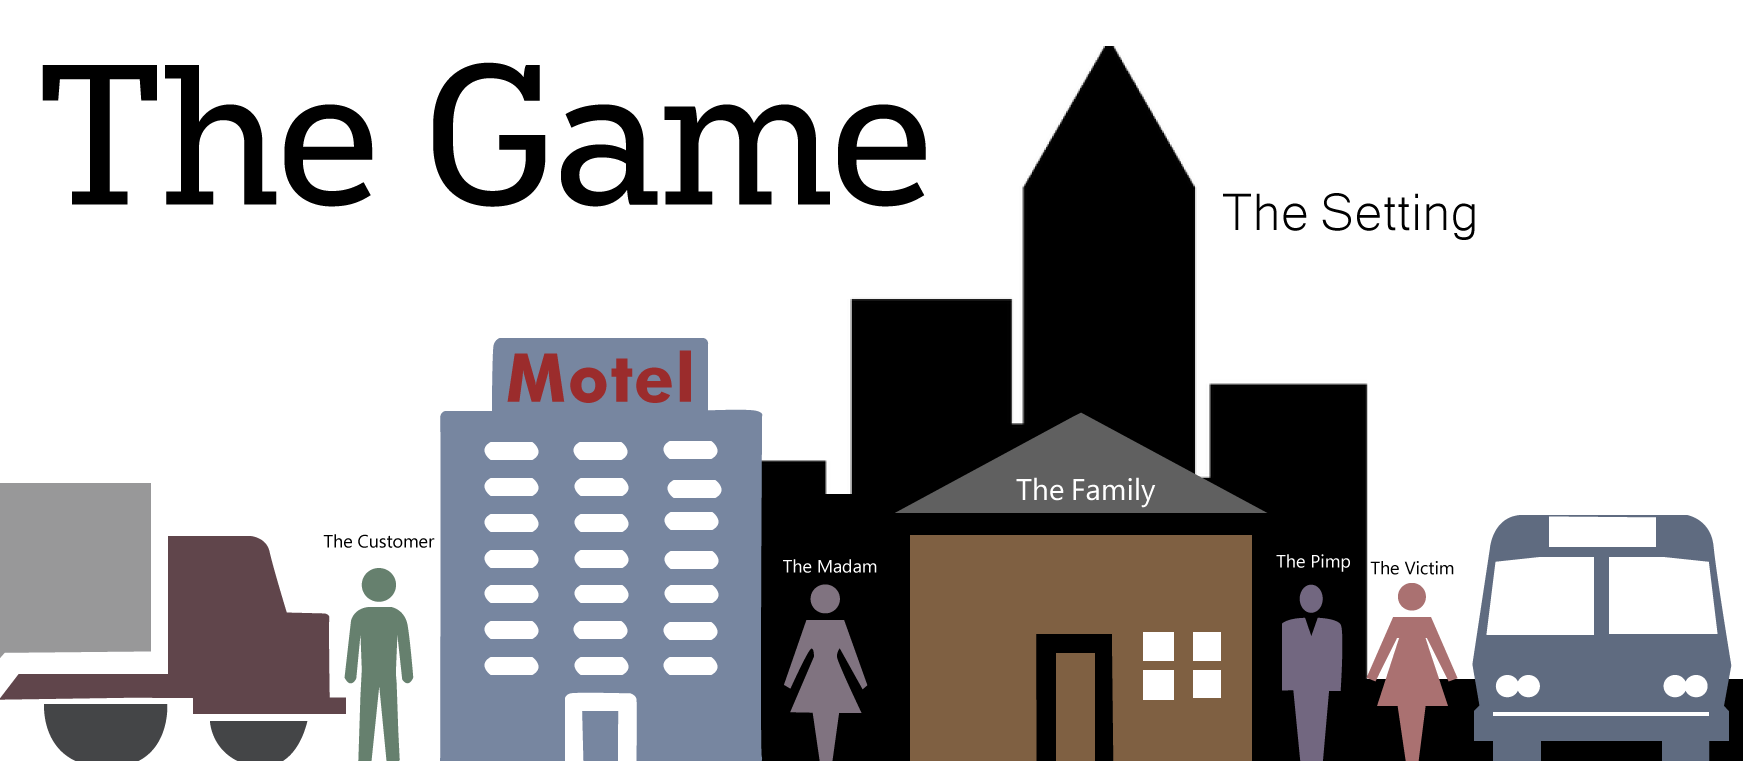
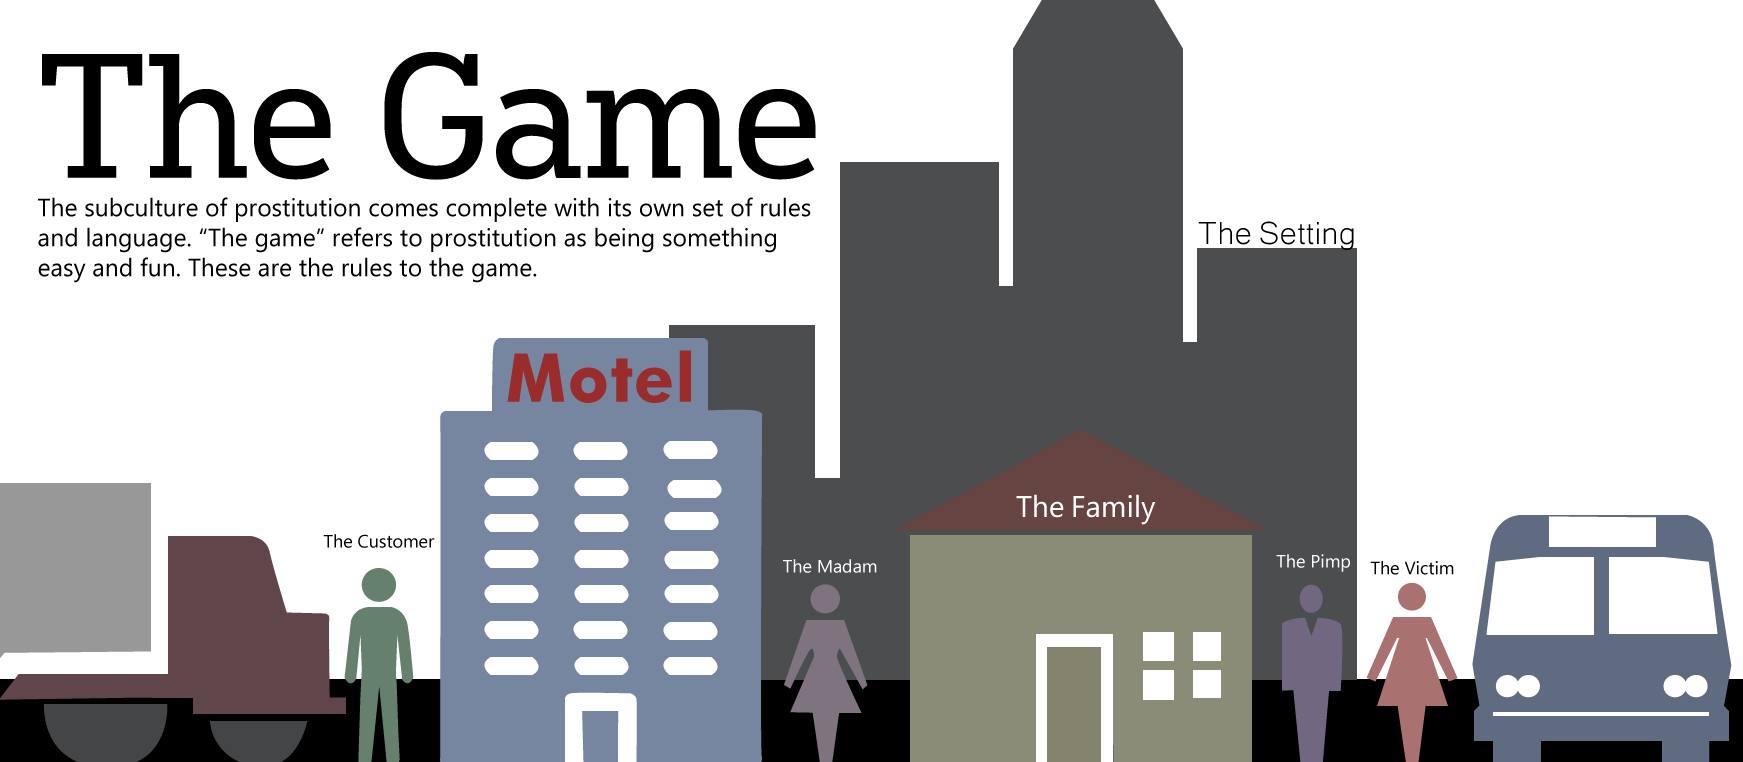
some added content

diff --git a/index.html b/index.html
@@ -24,6 +24,11 @@
               $('#div'+$(this).attr('target')).show();
         });
 
+        $('.words').click(function(){
+          $('.wordDef').hide();
+          $('#div'+$(this).attr('target')).show();
+        });
+
 
 });
 
@@ -37,8 +42,8 @@
 
   <img id="city" src="img/city.png">
 
-
-  <a target="1" id="game" class="button pulse"><img src="img/dot.png"></a>
+<div id='dots'>
+  <a target="1" id="setting" class="button pulse"><img src="img/dot.png"></a>
   <a target="2" id="victim" class="button pulse"><img src="img/dot.png"></a>
   <a target="3" id="pimp" class="button pulse"><img src="img/dot.png"></a>
   <a target="4" id="family" class="button pulse"><img src="img/dot.png"></a>
@@ -47,17 +52,79 @@
   <a target="7" id="customer" class="button pulse"><img src="img/dot.png"></a>
   <a target="8" id="truck" class="button pulse"><img src="img/dot.png"></a>
 </div>
-</div>
-</div>
-<div id="definition" class="container">
-  <div class="row">
-    <div class="col-md-12">
 
+</div>
+</div>
+<div class="row">
+<div style="background-color:white" class="col-md-12">
   <div id="div1" class="targetDef" style="display: none">
-    <h1>The Game — </h1>
-    <p>The subculture of prostitution comes complete with its own set of rules and language.
-      The game refers to prostitution as being something easy and fun when in reality it is harsher.
+    <h1>The Setting</h1>
+
+
+    <h2>Circuit</h2>
+    <p id="def1">A series of cities among which prostituted people are moved.
+      For example, the West Coast circuit which include San Diego, Las Vegas, Portland,
+      and the cities between. The term can also mean a chain of states. The Minisota pipeline
+      moves victims from state to state until they arrive in New York.</p>
+      <h2>Brothel</h2>
+    <p id="def2">Refers to an facility where sex is sold. Brothels have security to keep women and children in and robbers out.
+    Brothels can be open up to 24 hours a day. If closed than the victims are locked from the outside in.</p>
+    <h2>Escort Service</h2>
+    <p id="def3">An organization that operates via phone. Victims are sent out to the buyer or the buyer comes by to pick her up. Some Services partner
+    with others to have enough women for large parties or events.</p>
+    <h2>Kiddie Stroll</h2>
+    <p id="de4">An area that is know for prostituting young girls.</p>
+    <h2>Track</h2>
+    <p id="def5">An area know for it's prostitution activity.</p>
+
     </div>
+
+    <div id="div2" class="targetDef" style="display: none">
+
+      <h1>The Victim</h1>
+
+      <h2>Bottom</h2>
+      <p id="def6">The pimp's "right hand." She is appointed by the pimp to supervise over the other women.
+      She helps instruct victims, collect money, book hotel rooms, post ads, or punish the other girls.</p>
+
+      <h2>Branding</h2>
+      <p id="def7">A tatoo or carving on the victim that indicates ownership to the pimp.</p>
+
+      <h2>Trick</h2>
+      <p id="def8">Verb: Committing an act of prostitution.</p>
+
+      <h2>Turn Out</h2>
+      <p id="def9">A person newly involoved in the game.</p>
+
+
+    </div>
+
+    <div id="div3" class="targetDef" style="display:none">
+      <h1>The Pimp</h1>
+
+      <h2>Automatic</h2>
+      <p>When a victim's pimp is out of town or in jail the victim is expected to act by the rules. Most victims do act "automatic"
+      for fear of punishment or have been psychologically manipulated or feel a sense of loyalty to the pimp.</p>
+
+      <h2>Caught A Case</h2>
+      <p>When a pimp or victim have been arrested and charged.</p>
+
+      <h2>Choosing Up</h2>
+      <p></p>
+
+      <h2>Finesse Pimp/Romeo Pimp</h2>
+      <h2>Gorilla (or Guerilla) Pimp</h2>
+      <h2>Pimp Circle</h2>
+      <h2>Trade Up/Trade Down</h2>
+
+
+    </div>
+
+
+
+
+
+
   </div>
 </div>
 </div>

diff --git a/css/style.css b/css/style.css
@@ -1,21 +1,17 @@
+@@media query {
+
+}
+
+
 body{
   background-color: #7786a0;
 }
 
 .container{
-
-  background-color: white;
+  max-width: 620px;
+  min-width: 300px;
 }
 
-#city{
-  width: 100%;
-  position: relative;
-  border-bottom: 1px solid black;
-}
-
-#definition{
-  margin-top: 10px;
-}
 
 
 @-webkit-keyframes pulse_animation {
@@ -35,40 +31,68 @@ body{
 	-webkit-transform-origin:50% 70%;
 	-webkit-animation-iteration-count: infinite;
 	-webkit-animation-timing-function: linear;
+
 }
 
-#game{
-  position: absolute;
-  top: 8%;
-  left: 53%;
+
+#city{
+  width: 100%;
+  position: relative;
+  border-bottom: 1px solid black;
+  background-color: white;
 }
+
+
+#definition{
+  margin-top: 10px;
+}
+
 
 #setting{
   position: absolute;
-  top: 20%;
-  left: 84%;
+  top: 19%;
+  left: 71%;
 }
 
 #victim{
   position: absolute;
-  top: 58%;
+  top: 64%;
   left: 78%;
 }
 
 #pimp{
   position: absolute;
-  top: 58%;
-  left: 73%;
+  top: 62%;
+  left: 72%;
 }
 
 #family{
   position: absolute;
-  top: 48%;
+  top: 55%;
   left: 60%;
 }
 
 #madam{
   position: absolute;
-  top: 58%;
-  left: 45%;
+  top: 63%;
+  left: 46%;
+}
+
+#motel{
+  position: absolute;
+  top: 36%;
+  left: 33%;
+}
+
+#customer{
+  position: absolute;
+  top: 59%;
+  left: 22%;
+}
+
+#truck{
+  position: absolute;
+  top: 60%;
+  left: 13%;
+
 }
